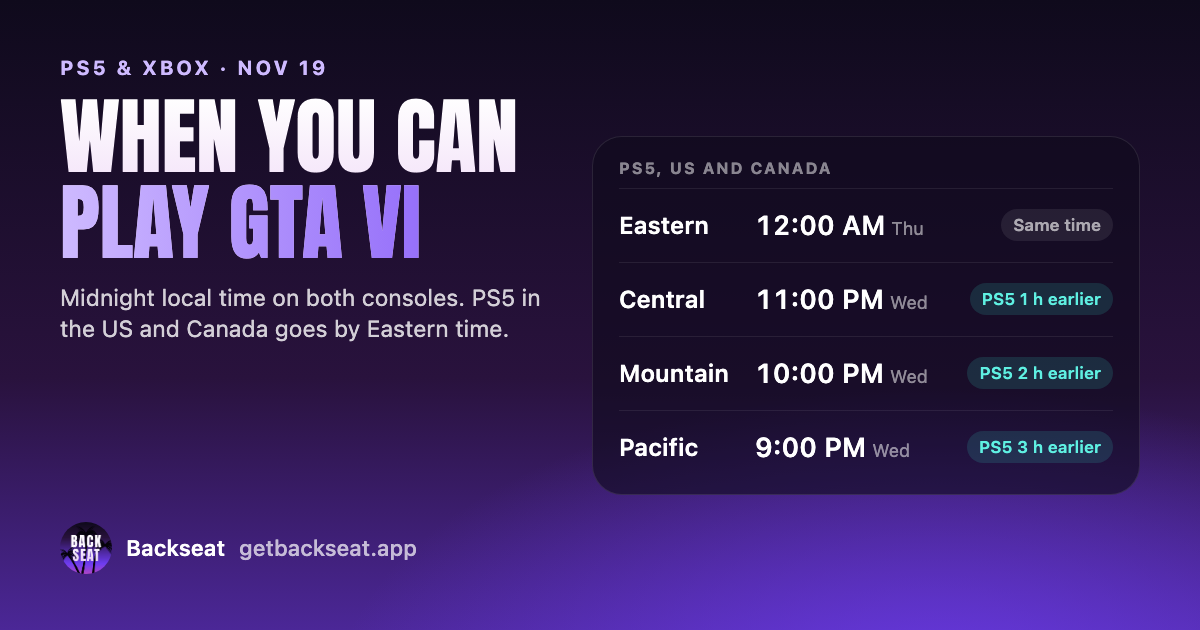
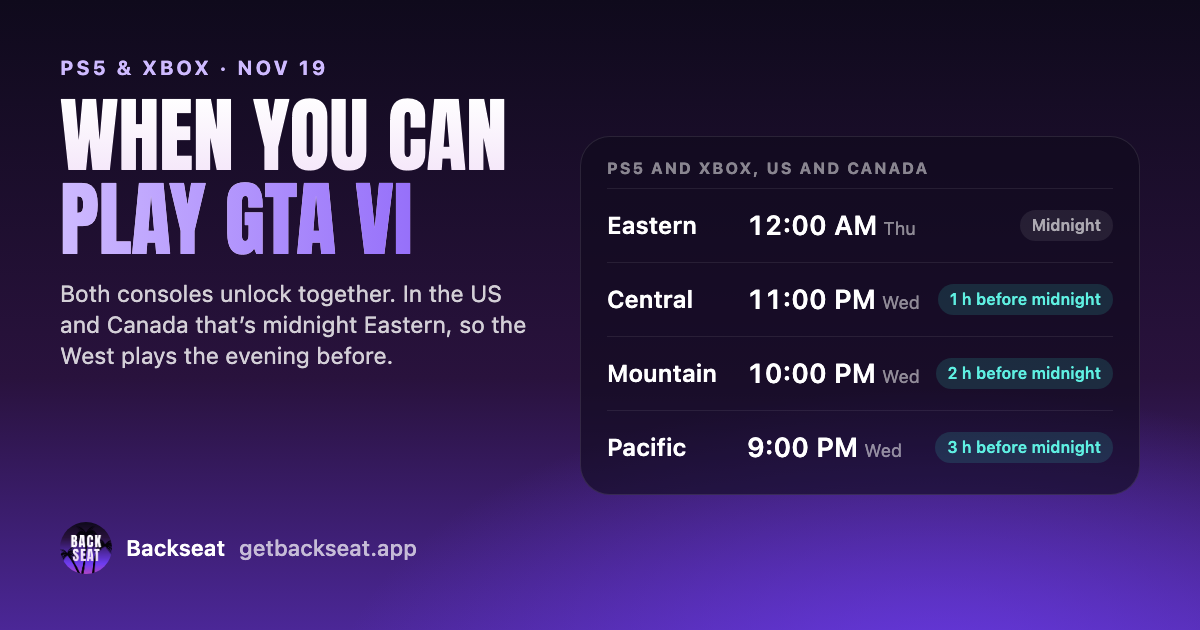
Unlock times: PS5 and Xbox unlock together, by the store country's moment
Microsoft Store lists the same moment as PlayStation Store for the US and
Canada, 05:00 GMT, so the page no longer says Xbox waits for local midnight.
The card picks the store country from the time zone (US or Canada,
Australia, Brazil, Chile, Ecuador, Indonesia, Mexico, Portugal, Spain or
another) and shows one time when both consoles match. The table has one
time per zone, how far it falls from local midnight, and British Columbia.
Questions add the New Zealand trick, marked unconfirmed, and the sources
link both stores. Support says both stores use midnight Eastern.

diff --git a/unlock-times/index.html b/unlock-times/index.html
@@ -4,7 +4,7 @@
 <meta charset="utf-8">
 <meta name="viewport" content="width=device-width, initial-scale=1, viewport-fit=cover">
 <title>When you can play GTA VI: PS5 and Xbox unlock times · Backseat</title>
-<meta name="description" content="GTA VI unlocks at midnight local time on November 19. PS5 in the US and Canada goes by Eastern time, so the West Coast plays at 9 PM. See the time where you are.">
+<meta name="description" content="PS5 and Xbox unlock GTA VI at the same moment. In the US and Canada both stores open it at midnight Eastern, so the West Coast plays at 9 PM. See the time where you are.">
 <meta name="theme-color" content="#0F0A1C">
 <meta name="apple-itunes-app" content="app-id=6830724358">
 <link rel="icon" type="image/png" href="../favicon.png">
@@ -13,9 +13,9 @@
 <meta property="og:type" content="website">
 <meta property="og:site_name" content="Backseat">
 <meta property="og:title" content="When you can play GTA VI">
-<meta property="og:description" content="PS5 and Xbox unlock times for your time zone. In the US and Canada, PS5 opens at midnight Eastern everywhere.">
+<meta property="og:description" content="PS5 and Xbox unlock times for where you are. In the US and Canada both consoles open at midnight Eastern.">
 <meta property="og:url" content="https://getbackseat.app/unlock-times/">
-<meta property="og:image" content="https://getbackseat.app/assets/unlock-times/og.png?v=1">
+<meta property="og:image" content="https://getbackseat.app/assets/unlock-times/og.png?v=2">
 <meta property="og:image:width" content="1200">
 <meta property="og:image:height" content="630">
 <meta name="twitter:card" content="summary_large_image">
@@ -72,8 +72,8 @@
   .eyebrow { font-size: 13px; font-weight: 700; letter-spacing: .14em; text-transform: uppercase; color: var(--muted); }
   .pill { display: inline-flex; align-items: center; height: 28px; padding: 0 12px; border-radius: 999px; font-size: 14px; font-weight: 650; white-space: nowrap; color: var(--muted); background: rgba(164, 159, 179, .14); }
   .pill[hidden] { display: none; }
-  .pill.ps5 { color: #5FF0E2; background: rgba(51, 219, 204, .15); }
-  .pill.xbox { color: #FFB066; background: rgba(255, 158, 66, .15); }
+  .pill.early { color: #5FF0E2; background: rgba(51, 219, 204, .15); }
+  .pill.late { color: #FFB066; background: rgba(255, 158, 66, .15); }
 
   .store { display: inline-block; border-radius: 12px; line-height: 0; }
   .store img { height: 56px; width: auto; }
@@ -88,7 +88,7 @@
   .get { font-size: 15px; font-weight: 600; text-decoration: none; padding: 7px 14px; border-radius: 999px; background: rgba(255, 255, 255, .1); }
   .get:hover { background: rgba(255, 255, 255, .16); }
 
-  /* Hero: the dawn rises behind the card with the visitor's own times. */
+  /* Hero: the dawn rises behind the card with the visitor's own time. */
   .hero { position: relative; background:
       radial-gradient(70% 45% at 60% 100%, rgba(110, 61, 242, .7), transparent 72%),
       radial-gradient(45% 35% at 15% 102%, rgba(255, 79, 153, .16), transparent 70%),
@@ -101,20 +101,18 @@
 
   .yours { margin-top: 34px; border-radius: 28px; padding: 22px clamp(18px, 3vw, 30px) 10px; background: rgba(15, 10, 28, .62); border: 1px solid rgba(255, 255, 255, .1); }
   .yours[hidden] { display: none; }
-  .yours-head { display: flex; align-items: flex-end; justify-content: space-between; gap: 14px 24px; flex-wrap: wrap; }
+  .yours-head { display: grid; grid-template-columns: minmax(0, 1.3fr) minmax(0, 1fr); gap: 14px 20px; }
   .field { display: grid; gap: 6px; min-width: 0; }
   .field > span { font-size: 12px; font-weight: 700; letter-spacing: .12em; text-transform: uppercase; color: var(--faint); }
-  .zone-pick { position: relative; max-width: 100%; }
-  .zone-pick select { appearance: none; -webkit-appearance: none; max-width: 100%; font: inherit; font-size: 17px; font-weight: 600; color: var(--ink); background: rgba(255, 255, 255, .08); border: 0; border-radius: 12px; padding: 9px 38px 9px 14px; cursor: pointer; text-overflow: ellipsis; }
-  .zone-pick::after { content: ""; position: absolute; right: 15px; top: 50%; width: 8px; height: 8px; border: solid var(--muted); border-width: 0 2px 2px 0; transform: translateY(-70%) rotate(45deg); pointer-events: none; }
-  .zone-pick select option { color: #000; }
-  .segments { display: inline-flex; padding: 3px; border-radius: 12px; background: rgba(255, 255, 255, .08); }
-  .segments button { font: inherit; font-size: 15px; font-weight: 600; color: var(--muted); background: none; border: 0; border-radius: 9px; padding: 7px 13px; cursor: pointer; white-space: nowrap; }
-  .segments button[aria-pressed="true"] { color: var(--ink); background: rgba(255, 255, 255, .14); }
+  .pick { position: relative; min-width: 0; }
+  .pick select { appearance: none; -webkit-appearance: none; width: 100%; font: inherit; font-size: 17px; font-weight: 600; color: var(--ink); background: rgba(255, 255, 255, .08); border: 0; border-radius: 12px; padding: 9px 38px 9px 14px; cursor: pointer; text-overflow: ellipsis; }
+  .pick::after { content: ""; position: absolute; right: 15px; top: 50%; width: 8px; height: 8px; border: solid var(--muted); border-width: 0 2px 2px 0; transform: translateY(-70%) rotate(45deg); pointer-events: none; }
+  .pick select option { color: #000; }
   .zone-name { font-size: 14px; color: var(--muted); margin-top: 12px; }
 
   .unlocks { list-style: none; margin-top: 8px; }
   .unlock { display: grid; grid-template-columns: minmax(0, 1fr) auto; align-items: center; gap: 4px 16px; padding-block: 16px; border-top: 1px solid var(--line); }
+  .unlock[hidden] { display: none; }
   .unlock .console { font-size: 15px; font-weight: 650; color: var(--muted); }
   .unlock .when { grid-column: 1; font-size: clamp(26px, 4.4vw, 36px); font-weight: 700; letter-spacing: -.01em; font-variant-numeric: tabular-nums; line-height: 1.15; }
   .unlock .left { grid-column: 1; font-size: 15px; color: var(--soft); font-variant-numeric: tabular-nums; }
@@ -162,14 +160,12 @@
 
   @media (max-width: 600px) {
     .yours { border-radius: 22px; }
-    .yours-head { align-items: stretch; }
-    .field, .zone-pick select { width: 100%; }
-    .segments { width: 100%; }
-    .segments button { flex: 1; }
-    .col-xbox { display: none; }
-    td { font-size: 16px; padding-right: 8px; }
+    .yours-head { grid-template-columns: 1fr; }
+    td { font-size: 15px; padding-right: 8px; }
+    td:first-child { white-space: normal; }
     td small { display: block; margin-left: 0; font-size: 13px; }
     .pill { height: 26px; font-size: 13px; padding: 0 10px; }
+    td .pill { font-size: 12px; padding: 0 8px; }
     .faq details p { padding-right: 0; }
     .store img { height: 52px; }
   }
@@ -187,26 +183,23 @@
     <div class="wrap">
       <p class="eyebrow">GTA VI unlock times</p>
       <h1 class="display">When you can play GTA VI</h1>
-      <p class="lede">Both consoles unlock at midnight local time on Thursday, November&nbsp;19. <b>One exception: PlayStation Store in the US and Canada opens at midnight Eastern in every time zone.</b></p>
+      <p class="lede">PS5 and Xbox unlock at the same moment: midnight in the main time zone of your store’s country. <b>In the US and Canada both stores open the game at midnight Eastern, in every time zone.</b></p>
 
       <div class="yours" id="yours" hidden>
         <div class="yours-head">
           <label class="field"><span>Your time zone</span>
-            <span class="zone-pick"><select id="zone" aria-describedby="zone-name"></select></span>
+            <span class="pick"><select id="zone" aria-describedby="zone-name"></select></span>
           </label>
-          <div class="field" role="group" aria-labelledby="store-label"><span id="store-label">Console store</span>
-            <div class="segments">
-              <button type="button" data-store="na" aria-pressed="false">US or Canada</button>
-              <button type="button" data-store="other" aria-pressed="false">Another country</button>
-            </div>
-          </div>
+          <label class="field"><span>Your console’s store</span>
+            <span class="pick"><select id="store"></select></span>
+          </label>
         </div>
         <p class="zone-name" id="zone-name"></p>
         <ul class="unlocks" aria-live="polite">
           <li class="unlock" id="ps5"><span class="console">PlayStation 5</span><span class="when"></span><span class="left"></span><span class="pill" hidden></span></li>
           <li class="unlock" id="xbox"><span class="console">Xbox Series X|S</span><span class="when"></span><span class="left"></span><span class="pill" hidden></span></li>
         </ul>
-        <p class="note">We picked both from your browser. What counts is the store region of your PlayStation or Xbox account and the time zone set on the console.</p>
+        <p class="note">We picked both from your browser. What counts is the country of your PlayStation account or the region set on your Xbox.</p>
       </div>
 
       <div class="cta after-card">
@@ -219,26 +212,27 @@
   <div class="wrap">
     <section class="block" aria-labelledby="na-title">
       <h2 class="display" id="na-title">US and Canada</h2>
-      <p>PlayStation Store lists one moment for both countries: 05:00 GMT on November&nbsp;19, which is midnight Eastern. Xbox unlocks at midnight in each time zone. So PS5 opens earlier the further west you are, and later than Xbox in Atlantic Canada and Newfoundland.</p>
+      <p>PlayStation Store and Microsoft Store both list one moment for the US and Canada: 05:00 GMT on November&nbsp;19, which is midnight Eastern. The further west you are, the earlier in the evening the game unlocks.</p>
       <table>
-        <caption>Xbox unlocks at 12:00 AM on Thursday, November&nbsp;19, in every time zone.</caption>
-        <thead><tr><th scope="col">Time zone</th><th scope="col">PS5</th><th scope="col" class="col-xbox">Xbox</th><th scope="col"><span class="sr-only">Difference</span></th></tr></thead>
+        <caption>The same time on PS5 and Xbox. Store listings checked on November&nbsp;17.</caption>
+        <thead><tr><th scope="col">Time zone</th><th scope="col">PS5 and Xbox</th><th scope="col"><span class="sr-only">Compared with local midnight</span></th></tr></thead>
         <tbody>
-          <tr><td>Newfoundland</td><td>1:30 AM<small>Thu</small></td><td class="col-xbox">12:00 AM<small>Thu</small></td><td><span class="pill xbox">Xbox 1½ h earlier</span></td></tr>
-          <tr><td>Atlantic</td><td>1:00 AM<small>Thu</small></td><td class="col-xbox">12:00 AM<small>Thu</small></td><td><span class="pill xbox">Xbox 1 h earlier</span></td></tr>
-          <tr><td>Eastern</td><td>12:00 AM<small>Thu</small></td><td class="col-xbox">12:00 AM<small>Thu</small></td><td><span class="pill">Same time</span></td></tr>
-          <tr><td>Central</td><td>11:00 PM<small>Wed</small></td><td class="col-xbox">12:00 AM<small>Thu</small></td><td><span class="pill ps5">PS5 1 h earlier</span></td></tr>
-          <tr><td>Mountain</td><td>10:00 PM<small>Wed</small></td><td class="col-xbox">12:00 AM<small>Thu</small></td><td><span class="pill ps5">PS5 2 h earlier</span></td></tr>
-          <tr><td>Pacific</td><td>9:00 PM<small>Wed</small></td><td class="col-xbox">12:00 AM<small>Thu</small></td><td><span class="pill ps5">PS5 3 h earlier</span></td></tr>
-          <tr><td>Alaska</td><td>8:00 PM<small>Wed</small></td><td class="col-xbox">12:00 AM<small>Thu</small></td><td><span class="pill ps5">PS5 4 h earlier</span></td></tr>
-          <tr><td>Hawaii</td><td>7:00 PM<small>Wed</small></td><td class="col-xbox">12:00 AM<small>Thu</small></td><td><span class="pill ps5">PS5 5 h earlier</span></td></tr>
+          <tr><td>Newfoundland</td><td>1:30 AM<small>Thu</small></td><td><span class="pill late">1½ h after midnight</span></td></tr>
+          <tr><td>Atlantic</td><td>1:00 AM<small>Thu</small></td><td><span class="pill late">1 h after midnight</span></td></tr>
+          <tr><td>Eastern</td><td>12:00 AM<small>Thu</small></td><td><span class="pill">Midnight</span></td></tr>
+          <tr><td>Central</td><td>11:00 PM<small>Wed</small></td><td><span class="pill early">1 h before midnight</span></td></tr>
+          <tr><td>Mountain</td><td>10:00 PM<small>Wed</small></td><td><span class="pill early">2 h before midnight</span></td></tr>
+          <tr><td>British Columbia</td><td>10:00 PM<small>Wed</small></td><td><span class="pill early">2 h before midnight</span></td></tr>
+          <tr><td>Pacific (US)</td><td>9:00 PM<small>Wed</small></td><td><span class="pill early">3 h before midnight</span></td></tr>
+          <tr><td>Alaska</td><td>8:00 PM<small>Wed</small></td><td><span class="pill early">4 h before midnight</span></td></tr>
+          <tr><td>Hawaii</td><td>7:00 PM<small>Wed</small></td><td><span class="pill early">5 h before midnight</span></td></tr>
         </tbody>
       </table>
     </section>
 
     <section class="block" aria-labelledby="world-title">
       <h2 class="display" id="world-title">Everywhere else</h2>
-      <p>PS5 and Xbox both unlock at 12:00 AM local time on Thursday, November&nbsp;19. New Zealand goes first, at 11:00 GMT on November&nbsp;18: that’s 6:00 AM Eastern and 3:00 AM Pacific.</p>
+      <p>Both consoles unlock at midnight in the main time zone of your store’s country. Most countries have one time zone, so that’s your own midnight. Australia goes by Sydney, Brazil by Brasília, Mexico by Mexico City and Spain by Madrid. New Zealand goes first, at 11:00 GMT on November&nbsp;18: that’s 6:00 AM Eastern and 3:00 AM Pacific.</p>
     </section>
 
     <section class="block" aria-labelledby="faq-title">
@@ -246,19 +240,23 @@
       <div class="faq">
         <details>
           <summary>Does it go by where I am or by my console?</summary>
-          <p>By your console. The store region of your PlayStation or Xbox account and the time zone set on the console decide when the game unlocks.</p>
+          <p>By your store. PlayStation goes by the country of your account, Xbox by the region set on the console. Each store opens the game at one moment for the whole country.</p>
         </details>
         <details>
-          <summary>Why does PS5 unlock before Xbox on the West Coast?</summary>
-          <p>PlayStation Store opens the game at one moment for the whole US and Canada: midnight Eastern, which is 9:00 PM on Wednesday in Pacific time. Xbox waits for midnight in your own time zone, three hours later.</p>
+          <summary>Why does it unlock before midnight on the West Coast?</summary>
+          <p>Both stores open the game at one moment for the whole US and Canada: midnight Eastern. In Pacific time that’s 9:00 PM on Wednesday, on PS5 and Xbox alike.</p>
+        </details>
+        <details>
+          <summary>What about the New Zealand trick?</summary>
+          <p>Some Xbox players switch the console region to New Zealand, where the store opens the game at 11:00 GMT on November&nbsp;18. Nobody has confirmed that it works for GTA VI. Finish the pre-load first and keep your own store’s time as plan B. On PS5 the store follows your account’s country.</p>
         </details>
         <details>
           <summary>Can I download it before launch?</summary>
-          <p>Yes. Pre-load opened on November&nbsp;10 on both consoles, and the download is 212&nbsp;GB. A boxed copy holds a download code, not a disc: enter the code and the pre-load starts.</p>
+          <p>Yes. Pre-load opened on November&nbsp;10 on both consoles and needs up to 212&nbsp;GB. A boxed copy holds a download code, not a disc: enter the code and the pre-load starts.</p>
         </details>
         <details>
           <summary>Where do these times come from?</summary>
-          <p>From <a href="https://support.rockstargames.com/articles/29jV3Cv2cCgvwM1XgtMO5o">Rockstar Support</a> and the release time on <a href="https://store.playstation.com/en-us/concept/10000730">PlayStation Store</a>. If either changes, we update this page.</p>
+          <p>From the release times on <a href="https://store.playstation.com/en-us/concept/10000730">PlayStation Store</a> and <a href="https://www.xbox.com/en-US/games/store/grand-theft-auto-vi/9P3H4968GRSM">Microsoft Store</a> for each country, checked on November&nbsp;17, and from <a href="https://support.rockstargames.com/articles/29jV3Cv2cCgvwM1XgtMO5o">Rockstar Support</a>. If they change, we update this page.</p>
         </details>
         <details>
           <summary>What is Backseat?</summary>
@@ -289,23 +287,36 @@
 </footer>
 
 <script>
-  // The visitor's own unlock times. The moments follow Shared/launch.json in the app's repository:
-  // PS5 in the US and Canada at one moment for both countries, every other launch at local midnight on Nov 19.
+  // The visitor's own unlock time. The stores set one moment per country, at midnight in its main time zone; the
+  // zones below follow `regionZones` in Shared/launch.json in the app's repository, read from PlayStation Store
+  // and Microsoft Store on 17 November. A country missing for a console unlocks at midnight in the visitor's zone.
   (function () {
-    var PS5_US_CANADA = Date.UTC(2026, 10, 19, 5, 0);   // midnight Eastern, as PlayStation Store lists it
-    var DAY = [2026, 10, 19];                            // Thursday, November 19 (months count from 0)
-    var US_CANADA = /^(US\/|Canada\/|Pacific\/Honolulu$|America\/(Kentucky|Indiana|North_Dakota)\/|America\/(New_York|Detroit|Chicago|Menominee|Denver|Boise|Phoenix|Shiprock|Los_Angeles|Anchorage|Juneau|Sitka|Metlakatla|Yakutat|Nome|Adak|Fort_Wayne|Indianapolis|Louisville|Knox_IN|Toronto|Montreal|Nipigon|Thunder_Bay|Iqaluit|Pangnirtung|Winnipeg|Rainy_River|Rankin_Inlet|Resolute|Regina|Swift_Current|Edmonton|Cambridge_Bay|Yellowknife|Inuvik|Vancouver|Whitehorse|Dawson|Dawson_Creek|Fort_Nelson|Creston|Halifax|Glace_Bay|Moncton|Goose_Bay|St_Johns|Atikokan|Coral_Harbour|Blanc-Sablon)$)/;
+    var DAY = [2026, 10, 19];   // Thursday, November 19 (months count from 0)
+    var STORES = [
+      { id: "na", name: "United States or Canada", ps5: "America/New_York", xbox: "America/New_York",
+        zones: /^(US\/|Canada\/|Pacific\/Honolulu$|America\/(Kentucky|Indiana|North_Dakota)\/|America\/(New_York|Detroit|Chicago|Menominee|Denver|Boise|Phoenix|Shiprock|Los_Angeles|Anchorage|Juneau|Sitka|Metlakatla|Yakutat|Nome|Adak|Fort_Wayne|Indianapolis|Louisville|Knox_IN|Toronto|Montreal|Nipigon|Thunder_Bay|Iqaluit|Pangnirtung|Winnipeg|Rainy_River|Rankin_Inlet|Resolute|Regina|Swift_Current|Edmonton|Cambridge_Bay|Yellowknife|Inuvik|Vancouver|Whitehorse|Dawson|Dawson_Creek|Fort_Nelson|Creston|Halifax|Glace_Bay|Moncton|Goose_Bay|St_Johns|Atikokan|Coral_Harbour|Blanc-Sablon)$)/ },
+      { id: "au", name: "Australia", ps5: "Australia/Sydney", xbox: "Australia/Sydney", zones: /^Australia\// },
+      { id: "br", name: "Brazil", ps5: "America/Sao_Paulo", xbox: "America/Sao_Paulo",
+        zones: /^(Brazil\/|America\/(Sao_Paulo|Bahia|Fortaleza|Recife|Maceio|Belem|Araguaina|Santarem|Manaus|Porto_Velho|Boa_Vista|Cuiaba|Campo_Grande|Rio_Branco|Eirunepe|Noronha)$)/ },
+      { id: "cl", name: "Chile", ps5: "America/Santiago", xbox: "America/Santiago", zones: /^(Chile\/|Pacific\/Easter$|America\/(Santiago|Punta_Arenas)$)/ },
+      { id: "ec", name: "Ecuador", ps5: "America/Guayaquil", xbox: null, zones: /^(America\/Guayaquil|Pacific\/Galapagos)$/ },
+      { id: "id", name: "Indonesia", ps5: "Asia/Jakarta", xbox: null, zones: /^Asia\/(Jakarta|Pontianak|Makassar|Jayapura)$/ },
+      { id: "mx", name: "Mexico", ps5: "America/Mexico_City", xbox: "America/Mexico_City",
+        zones: /^(Mexico\/|America\/(Mexico_City|Cancun|Merida|Monterrey|Matamoros|Chihuahua|Ciudad_Juarez|Ojinaga|Mazatlan|Bahia_Banderas|Hermosillo|Tijuana)$)/ },
+      { id: "pt", name: "Portugal", ps5: "Europe/Lisbon", xbox: "Europe/Lisbon", zones: /^(Europe\/Lisbon|Atlantic\/(Madeira|Azores))$/ },
+      { id: "es", name: "Spain", ps5: "Europe/Madrid", xbox: "Europe/Madrid", zones: /^(Europe\/Madrid|Africa\/Ceuta|Atlantic\/Canary)$/ },
+      { id: "other", name: "Another country", ps5: null, xbox: null, zones: null }
+    ];
 
     var card = document.getElementById("yours");
-    var select = document.getElementById("zone");
-    var buttons = card.querySelectorAll("[data-store]");
+    var zoneSelect = document.getElementById("zone");
+    var storeSelect = document.getElementById("store");
     var params = new URLSearchParams(location.search);
     var detected = params.get("tz") || Intl.DateTimeFormat().resolvedOptions().timeZone || "UTC";
-    var store = null;
 
     // Times in English, with the visitor's 12- or 24-hour clock.
-    var h23 = new Intl.DateTimeFormat(undefined, { hour: "numeric" }).resolvedOptions().hourCycle;
-    var locale = /^en\b/.test(navigator.language) ? navigator.language : (h23 === "h23" || h23 === "h24" ? "en-GB" : "en-US");
+    var cycle = new Intl.DateTimeFormat(undefined, { hour: "numeric" }).resolvedOptions().hourCycle;
+    var locale = /^en\b/.test(navigator.language) ? navigator.language : (cycle === "h23" || cycle === "h24" ? "en-GB" : "en-US");
 
     function offset(at, zone) {
       var parts = {};
@@ -338,23 +349,34 @@
         .filter(function (p) { return p.type === "timeZoneName"; })[0];
       return city + (long ? ", " + long.value : "");
     }
+    function storeFor(zone) {
+      for (var i = 0; i < STORES.length; i++) if (STORES[i].zones && STORES[i].zones.test(zone)) return STORES[i].id;
+      return "other";
+    }
+    function moment(store, console, zone) {
+      var countryZone = store[console];
+      return midnight(countryZone || zone);
+    }
 
     function render() {
-      var zone = select.value;
+      var zone = zoneSelect.value;
+      var store = STORES.filter(function (s) { return s.id === storeSelect.value; })[0];
       var now = params.get("now") ? Date.parse(params.get("now")) : Date.now();
-      var xbox = midnight(zone);
-      var ps5 = store === "na" ? PS5_US_CANADA : xbox;
-      document.getElementById("zone-name").textContent = zoneName(zone, xbox);
-      [["ps5", ps5], ["xbox", xbox]].forEach(function (row) {
-        var el = document.getElementById(row[0]);
-        el.querySelector(".when").textContent = when(row[1], zone);
-        el.querySelector(".left").textContent = left(row[1], now);
-        var pill = el.querySelector(".pill"), other = row[0] === "ps5" ? xbox : ps5;
-        pill.hidden = row[1] >= other;
-        pill.className = "pill " + row[0];
-        pill.textContent = span(other - row[1]) + " earlier";
+      var own = midnight(zone);
+      var times = { ps5: moment(store, "ps5", zone), xbox: moment(store, "xbox", zone) };
+      var together = times.ps5 === times.xbox;
+      document.getElementById("zone-name").textContent = zoneName(zone, own);
+      ["ps5", "xbox"].forEach(function (id) {
+        var el = document.getElementById(id), at = times[id];
+        el.hidden = together && id === "xbox";
+        el.querySelector(".console").textContent = together ? "PS5 and Xbox Series X|S" : (id === "ps5" ? "PlayStation 5" : "Xbox Series X|S");
+        el.querySelector(".when").textContent = when(at, zone);
+        el.querySelector(".left").textContent = left(at, now);
+        var pill = el.querySelector(".pill");
+        pill.hidden = at === own;
+        pill.className = "pill " + (at < own ? "early" : "late");
+        pill.textContent = span(own - at) + (at < own ? " before" : " after") + " your midnight";
       });
-      buttons.forEach(function (b) { b.setAttribute("aria-pressed", String(b.dataset.store === store)); });
     }
 
     var zones = (Intl.supportedValuesOf ? Intl.supportedValuesOf("timeZone") : []).slice();
@@ -363,13 +385,19 @@
       var o = document.createElement("option");
       o.value = z;
       o.textContent = z.replace(/_/g, " ").replace(/\//g, " / ");
-      select.appendChild(o);
+      zoneSelect.appendChild(o);
     });
-    select.value = detected;
-    store = US_CANADA.test(detected) ? "na" : "other";
+    STORES.forEach(function (s) {
+      var o = document.createElement("option");
+      o.value = s.id;
+      o.textContent = s.name;
+      storeSelect.appendChild(o);
+    });
+    zoneSelect.value = detected;
+    storeSelect.value = storeFor(detected);
 
-    select.addEventListener("change", function () { store = US_CANADA.test(select.value) ? "na" : "other"; render(); });
-    buttons.forEach(function (b) { b.addEventListener("click", function () { store = b.dataset.store; render(); }); });
+    zoneSelect.addEventListener("change", function () { storeSelect.value = storeFor(zoneSelect.value); render(); });
+    storeSelect.addEventListener("change", render);
 
     card.hidden = false;
     render();

diff --git a/support/index.html b/support/index.html
@@ -40,7 +40,7 @@
 <h1>Support</h1>
 <p>Questions, a wrong date or an idea for the app: write to <a href="mailto:support@getbackseat.app">support@getbackseat.app</a>.</p>
 <h2>The countdown shows a different time than I expected</h2>
-<p>The app counts down to the moment the game unlocks on the console you picked, in your own time zone. In the US and Canada, PlayStation Store unlocks the game at midnight Eastern for every time zone. Change the console with the badge on the Countdown screen.</p>
+<p>The app counts down to the moment the game unlocks on the console you picked, in your own time zone. In the US and Canada, PlayStation Store and Microsoft Store both unlock the game at midnight Eastern for every time zone. Change the console with the badge on the Countdown screen.</p>
 </article>
 </main>
 </body>
